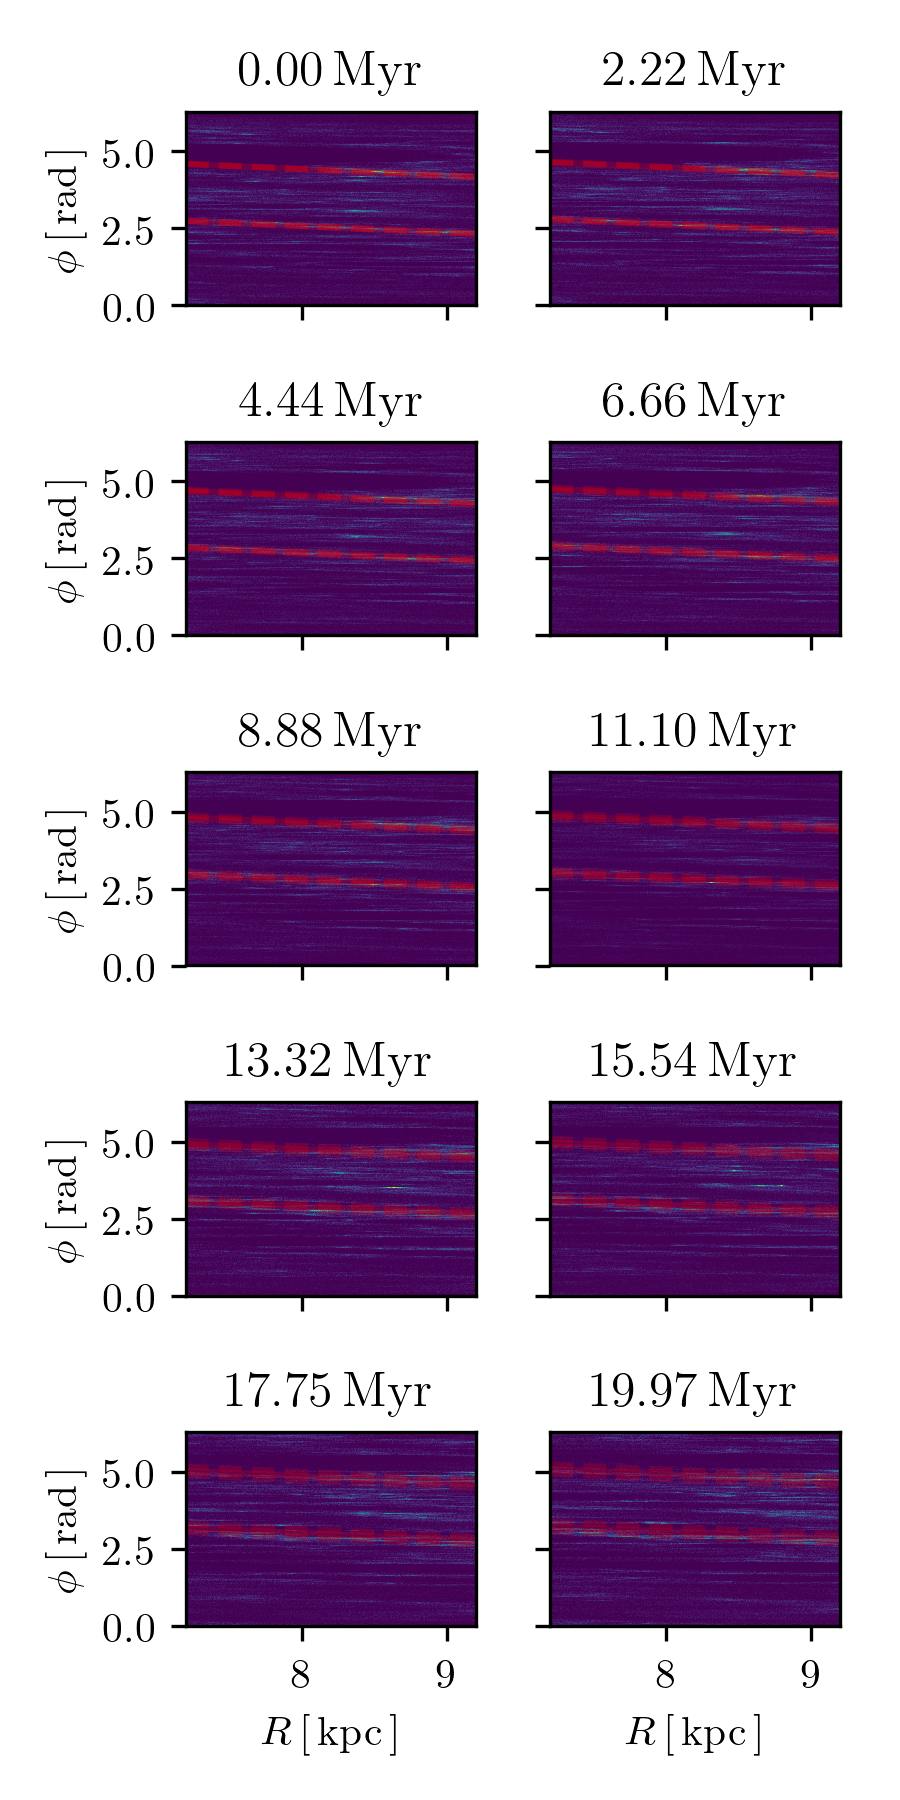
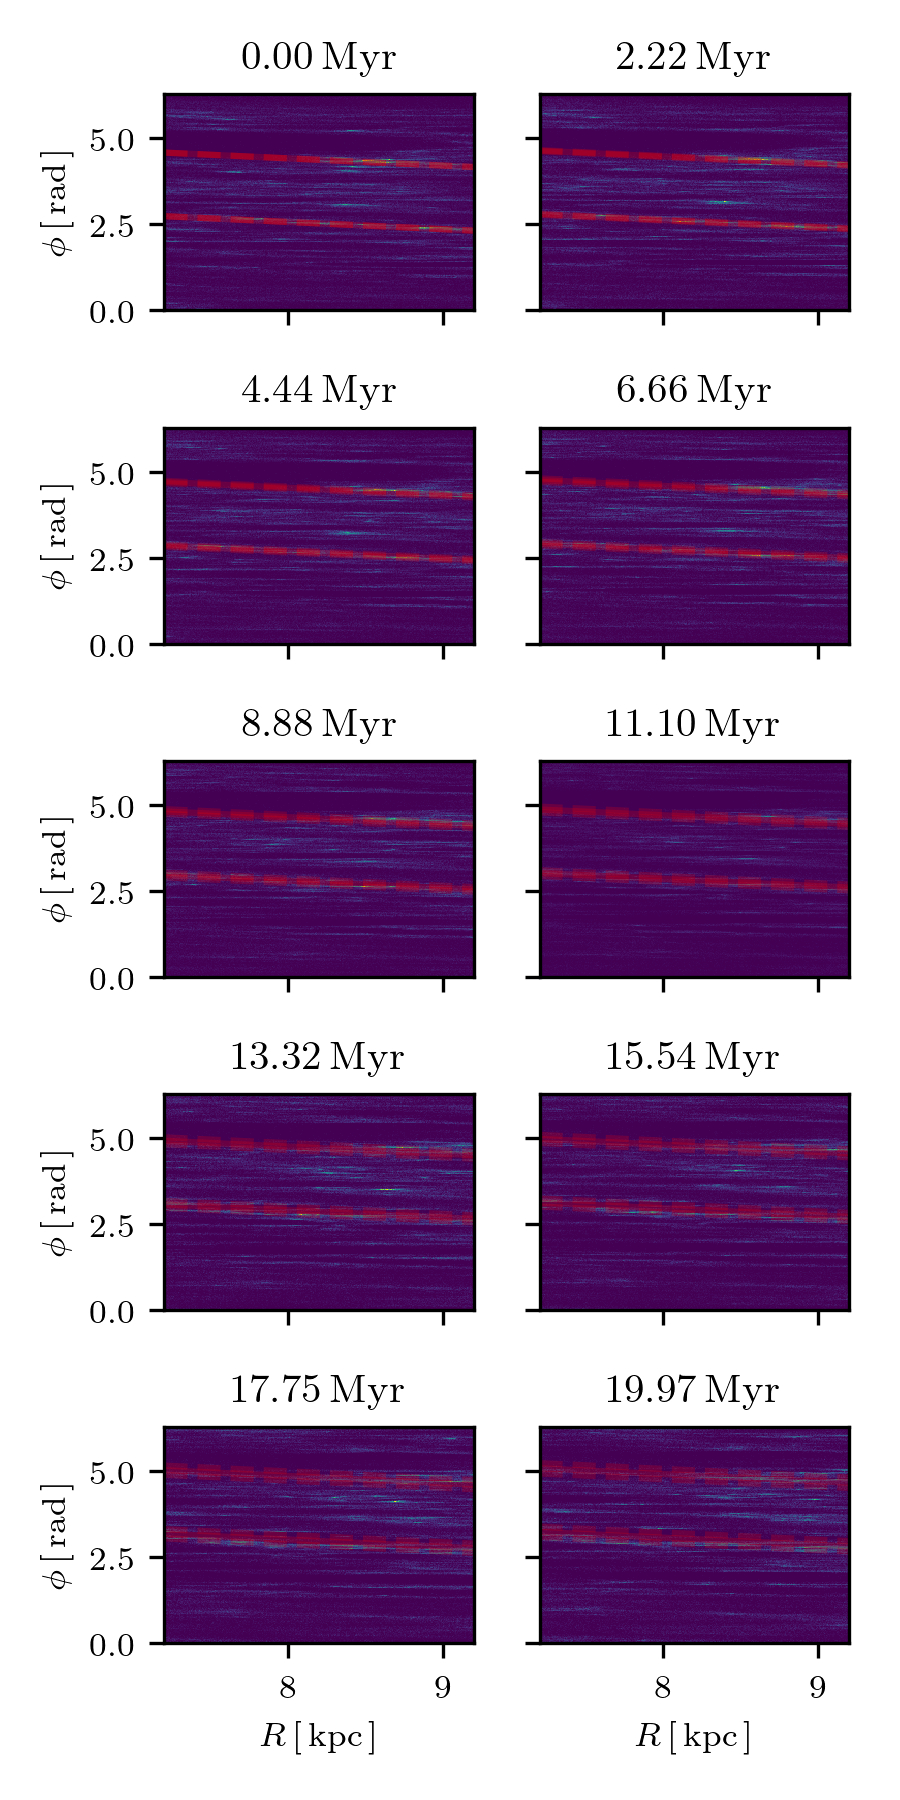
Update pattern speed image

diff --git a/paper/ms.tex b/paper/ms.tex
@@ -4,6 +4,8 @@
 
 \shortauthors{Beane et al.}
 
+\usepackage{graphicx}
+
 \newcommand{\Gus}[1]{\textcolor{red}{#1}}
 
 \newcommand{\Msun}{\text{M}_\odot}
@@ -106,7 +108,7 @@ first plotting a $\phi$-$R$ 2D histogram, shown in
 Figure~\ref{fig:pattern_speed}. In order to compute $\phi$ and $R$, we use the principal axes from \citep{2018arXiv180610564S}. Push
 
 \begin{figure}
-\includegraphics[width=\columnwidth]{{pattern_speed_by_eye}.png}
+\includegraphics[width=\textwidth,height=\textheight,keepaspectratio]{{pattern_speed_by_eye}.png}
 \caption{Pattern speed.}
 \label{fig:pattern_speed}
 \end{figure}
